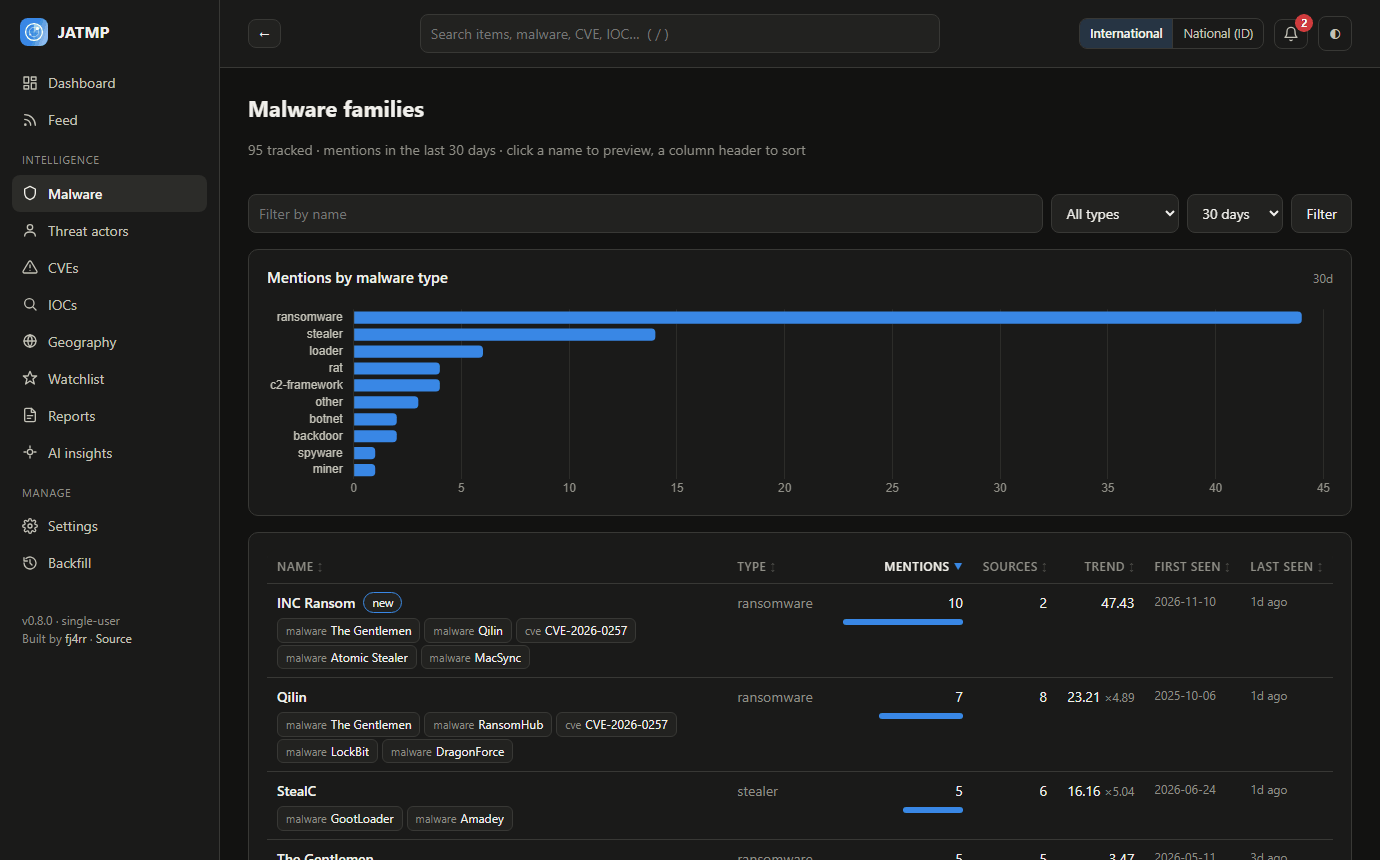
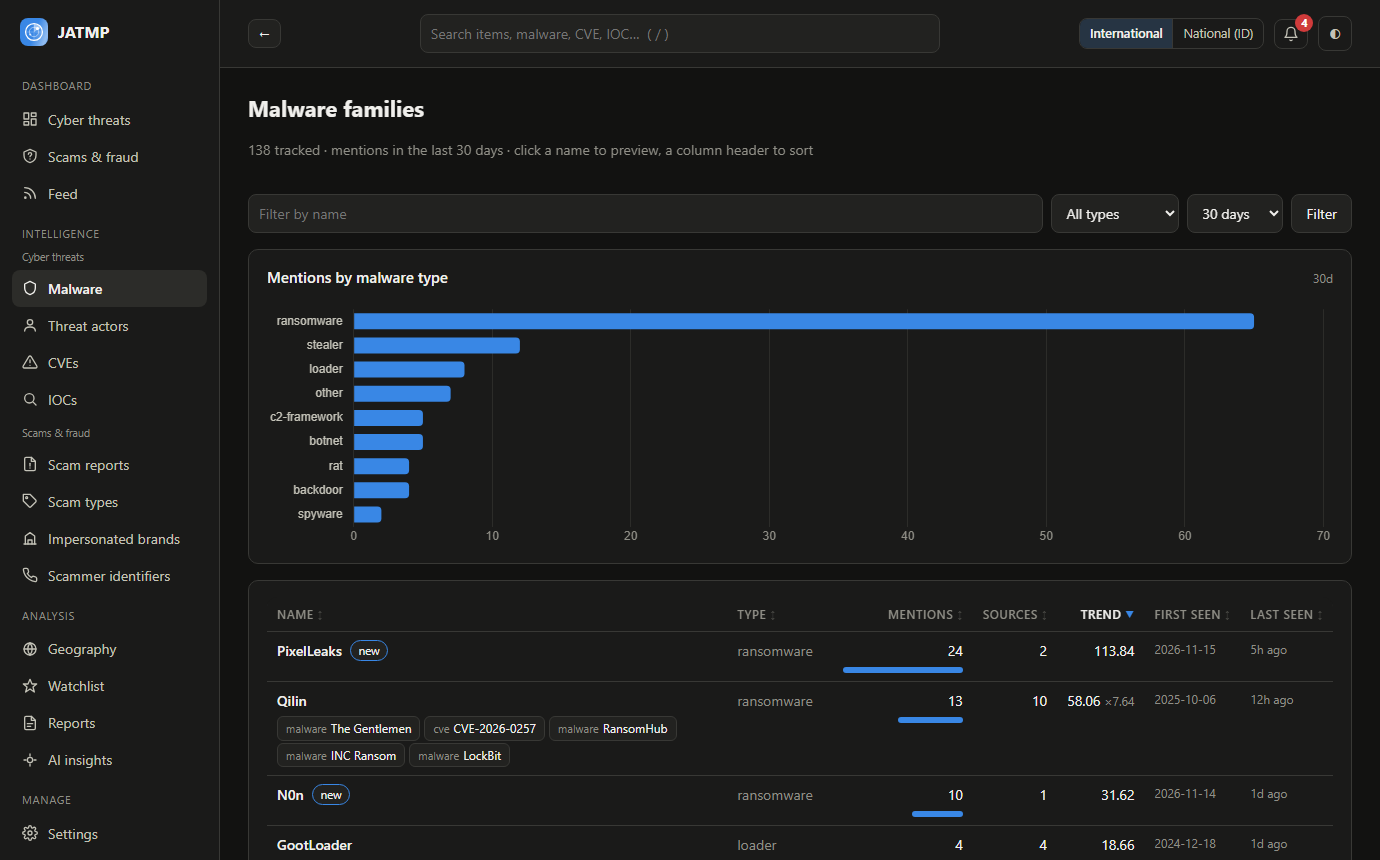
Retake every screenshot for 0.10; executive summary wording everywhere
- item, graph, feed preview, entity, IOCs, malware, CVEs, geography, reports and AI
  settings shots now show the 0.10 sidebar; screenshots.md says so.
- Remaining "AI digest" labels (AI settings checkbox, report appendix and headings,
  notifications, setting description) now say executive summary.

diff --git a/app/templates/settings.html b/app/templates/settings.html
@@ -167,7 +167,7 @@
       </details>
       <h3>What the AI should do</h3>
       <div class="field"><label class="check"><input type="checkbox" name="llm_auto_extract" {{ 'checked' if ai.vals.llm_auto_extract }}> Discover malware families that are not in the knowledge base yet</label></div>
-      <div class="field"><label class="check"><input type="checkbox" name="llm_daily_digest" {{ 'checked' if ai.vals.llm_daily_digest }}> Write a daily digest (06:00 UTC)</label></div>
+      <div class="field"><label class="check"><input type="checkbox" name="llm_daily_digest" {{ 'checked' if ai.vals.llm_daily_digest }}> Write a daily executive summary (06:00 UTC)</label></div>
       <div class="field"><label class="check"><input type="checkbox" name="llm_auto_summarize" {{ 'checked' if ai.vals.llm_auto_summarize }}> Summarise new high-severity items automatically <span class="muted">(uses more tokens)</span></label></div>
       <div class="field"><label for="llm-lang">Language for AI output</label><input id="llm-lang" type="text" name="llm_language" value="{{ ai.vals.llm_language or 'English' }}" placeholder="English, Bahasa Indonesia, Deutsch…"></div>
     </div>

diff --git a/app/reports.py b/app/reports.py
@@ -7,7 +7,7 @@ Structure (PDF / Word / Markdown):
      description, related malware / actors / CVEs and the link to the original
   3. Top malware families – type, mentions, sources that covered them, an example hash
   4. Top indicators of compromise – verdict, attributed family, where they were seen
-  Appendix (optional) – collection statistics, threat actors, CVEs, newly seen families, AI digest
+  Appendix (optional) – collection statistics, threat actors, CVEs, newly seen families, AI executive summary
 
 ``gather()`` collects everything once into plain dicts; the exporters only format.
 Word and PDF need the optional ``python-docx`` / ``reportlab`` packages (in requirements.txt).
@@ -36,7 +36,7 @@ SECTIONS = {
     "actors": "Appendix: threat actors",
     "cves": "Appendix: vulnerabilities (CVE)",
     "new": "Appendix: newly seen families",
-    "digest": "Appendix: latest AI digest",
+    "digest": "Appendix: latest AI executive summary",
 }
 DEFAULT_COUNTS = {"findings": 3, "families": 10, "iocs": 20}
 FORMATS = {"pdf": "PDF", "docx": "Word (.docx)", "md": "Markdown", "csv": "CSV"}
@@ -392,9 +392,9 @@ def to_markdown(rep: dict) -> bytes:
             lines += [f"### {title}", ""] + table(hdr, rows)
         if rep.get("digest"):
             d = rep["digest"]
-            lines += [f"### Latest AI digest — {d['title']}", "", f"_{_fmt(d['created'])} · {d['model']}_", "", d["content"], ""]
+            lines += [f"### Latest AI executive summary — {d['title']}", "", f"_{_fmt(d['created'])} · {d['model']}_", "", d["content"], ""]
         elif "digest" in rep:
-            lines += ["### Latest AI digest", "", "_no digest available for this period_", ""]
+            lines += ["### Latest AI executive summary", "", "_no executive summary available for this period_", ""]
     return "\n".join(lines).encode("utf-8")
 
 
@@ -427,7 +427,7 @@ def to_csv(rep: dict) -> bytes:
         w.writerows(rows)
     if rep.get("digest"):
         w.writerow([])
-        w.writerow(["## Latest AI digest", rep["digest"]["title"], _fmt(rep["digest"]["created"]), rep["digest"]["model"]])
+        w.writerow(["## Latest AI executive summary", rep["digest"]["title"], _fmt(rep["digest"]["created"]), rep["digest"]["model"]])
         for line in rep["digest"]["content"].splitlines():
             w.writerow([line])
     return ("\ufeff" + buf.getvalue()).encode("utf-8")
@@ -512,7 +512,7 @@ def to_docx(rep: dict) -> bytes:
             table(hdr, rows)
         if rep.get("digest"):
             d = rep["digest"]
-            doc.add_heading(f"Latest AI digest — {d['title']}", 2)
+            doc.add_heading(f"Latest AI executive summary — {d['title']}", 2)
             small(f"{_fmt(d['created'])} · {d['model']}")
             for para in re.split(r"\n{2,}", d["content"]):
                 doc.add_paragraph(re.sub(r"[*_#`]+", "", para).strip())
@@ -631,7 +631,7 @@ def to_pdf(rep: dict) -> bytes:
             story.append(Spacer(1, 6))
         if rep.get("digest"):
             d = rep["digest"]
-            story += [Paragraph(escape(f"Latest AI digest — {d['title']}"), h2), Paragraph(escape(f"{_fmt(d['created'])} · {d['model']}"), meta)]
+            story += [Paragraph(escape(f"Latest AI executive summary — {d['title']}"), h2), Paragraph(escape(f"{_fmt(d['created'])} · {d['model']}"), meta)]
             for para in re.split(r"\n{2,}", d["content"]):
                 story.append(Paragraph(escape(re.sub(r"[*_#`]+", "", para).strip()).replace("\n", "<br/>"), body))
                 story.append(Spacer(1, 3))

diff --git a/tests/test_v082.py b/tests/test_v082.py
@@ -86,8 +86,8 @@ def test_dashboard_layout(client, v082_items):
                    "/static/js/globe.js"):
         assert marker in page, marker
     assert "Most-mentioned families" not in page and 'id="c-top"' not in page
-    # the AI digest card only appears when an LLM is configured (none in the test install)
-    assert "AI digest</h2>" not in page
+    # the AI executive summary card only appears when an LLM is configured (none in the test install)
+    assert "Executive summary</h2>" not in page
     # tiles come before the volume chart, the trending tables before the over-time chart
     assert page.index('data-kpi="items"') < page.index('id="c-timeline"') < page.index("Trending CVEs") < page.index('id="c-trend"')
     assert page.index('id="c-cat"') < page.index("Notable recent items") < page.index('id="c-src"') < page.index('id="c-ioc"')

diff --git a/app/settings.py b/app/settings.py
@@ -77,7 +77,7 @@ SCHEMA: dict[str, tuple[Any, str, str, str, str]] = {
     "llm_api_key": ("", "LLM_API_KEY", "API key (OpenAI-compatible / Anthropic)", "secret", "llm"),
     "llm_auto_summarize": (False, "", "Auto-summarize new high-severity items", "bool", "llm"),
     "llm_auto_extract": (True, "", "Let the LLM discover malware families not in the knowledge base", "bool", "llm"),
-    "llm_daily_digest": (True, "", "Generate a daily AI digest", "bool", "llm"),
+    "llm_daily_digest": (True, "", "Write a daily AI executive summary", "bool", "llm"),
     "llm_language": ("English", "", "Language for AI output (e.g. English, Bahasa Indonesia)", "text", "llm"),
     # Sharing: what may leave JATMP through the REST API, exports, webhooks and MISP
     "api_max_tlp": ("GREEN", "", "Highest TLP shared through the API, exports, webhooks and MISP",

diff --git a/app/jobs.py b/app/jobs.py
@@ -428,13 +428,13 @@ def run_digest(force: bool = False) -> str:
         ins = daily_digest(db)
         db.commit()
         _finish(db, run, "ok", ins.title)
-        notify.notify(db, "info", "AI digest ready", ins.title, "/insights", key=f"digest:{ins.id}")
+        notify.notify(db, "info", "AI executive summary ready", ins.title, "/insights", key=f"digest:{ins.id}")
         db.commit()
         return ins.title
     except Exception as e:
         db.rollback()
         _finish(db, run, "error", str(e))
-        notify.notify(db, "error", "AI digest failed", str(e)[:300], "/insights",
+        notify.notify(db, "error", "AI executive summary failed", str(e)[:300], "/insights",
                       key=f"digestfail:{date.today().isoformat()}")
         db.commit()
         return f"error: {e}"

diff --git a/CHANGELOG.md b/CHANGELOG.md
@@ -42,7 +42,8 @@ All notable changes to JATMP. Upgrade steps per version are in [docs/upgrading.m
 - **Documentation site**: the `docs/` pages also build a searchable MkDocs (Material) site with light and dark
   themes, published to GitHub Pages from `main` (`.github/workflows/docs.yml`, strict: broken links and anchors
   fail the build). The Markdown still reads on GitHub; see [Development](docs/development.md#documentation-site).
-  Screenshots of the dashboards, scam pages and backfill page are updated.
+  Every screenshot is retaken for 0.10, and the remaining "digest" labels (AI settings, report appendix,
+  notifications) now say executive summary.
 - API: `/api/stats/*` take periods up to 365 days; `scope=fraud` limits trending, trending timelines, sources and
   sectors to scam reports; new `/api/stats/fraud/overview`, `/fraud/kpi_series` and `/fraud/timeline`; timelines
   return `step` (1 = daily, 7 = weekly).

diff --git a/docs/reporting-and-ai.md b/docs/reporting-and-ai.md
@@ -10,7 +10,7 @@ The report builder produces a **Threat Intel Findings** document for any period,
 It opens with a summary of the period, writes up the top findings (published time, severity, description,
 related malware, actors and CVEs, and a link to the original), lists the leading malware families with their
 type, the sources that covered them and an example hash, and closes with the top indicators of compromise and
-their verdicts. Collection statistics, actors, CVEs, newly seen families and the latest AI digest can be
+their verdicts. Collection statistics, actors, CVEs, newly seen families and the latest AI executive summary can be
 appended. The number of findings, families and indicators is adjustable.
 
 ## AI (optional)

diff --git a/docs/screenshots.md b/docs/screenshots.md
@@ -2,8 +2,8 @@
 
 [← Documentation index](README.md)
 
-A tour of the interface. The dashboards, scam & fraud pages and backfill page are as of 0.10, the other pages
-as of 0.8.2 (the sidebar in those shots predates the two dashboards).
+A tour of the interface as of 0.10, taken on a test install filled from public sources (no enrichment keys, so most
+indicators show as *pending*).
 
 Cyber threats dashboard: the sidebar with the two dashboards and the cyber and scam pages under *Intelligence*,
 the period switch (7 days to 1 year) with the backfill note, International / National (ID) switch, *Collect now*
